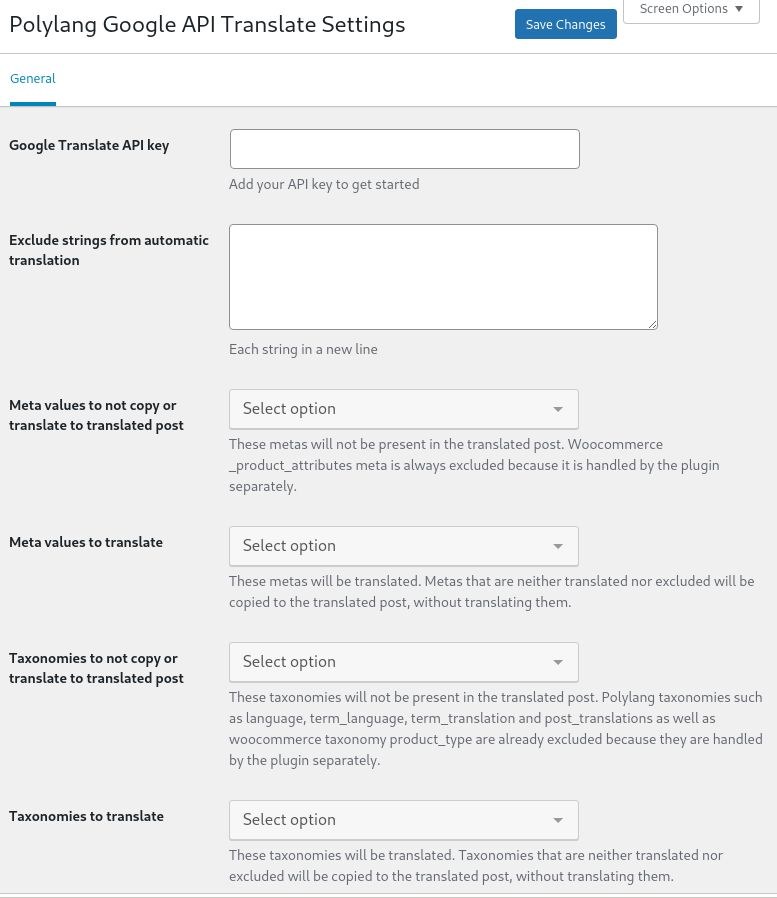
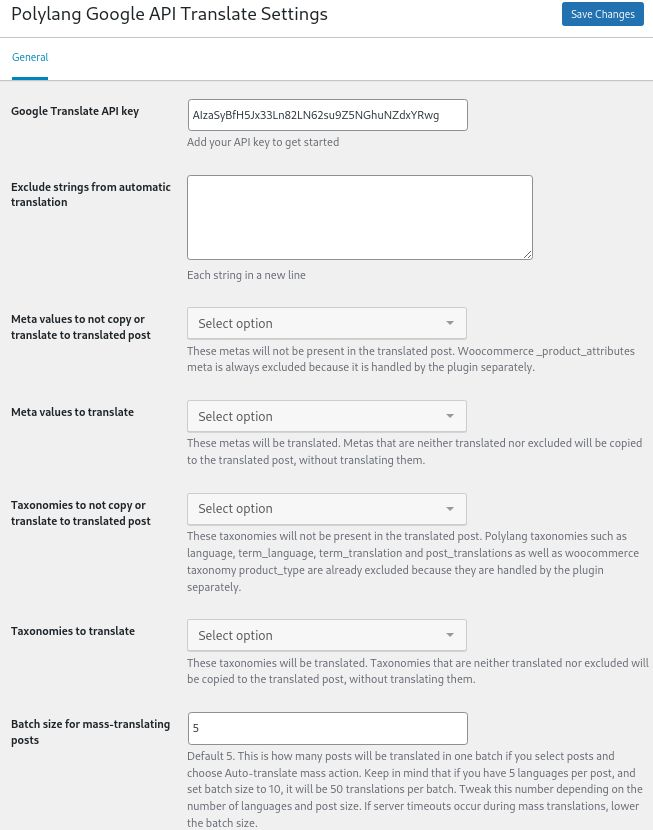
fixing terms translation table view updating

diff --git a/polylang-google-api-translate.php b/polylang-google-api-translate.php
@@ -161,7 +161,7 @@ class PAT_translate_class{
                 array(
                     'id'   => 'pat_batch_size',
                     'name' => __( 'Batch size for mass-translating posts' ),
-                    'desc' => __( 'Default 10. This is how many posts will be translated in one batch if you select posts and choose Auto-translate mass action. Keep in mind that if you have 5 languages per post, and set batch size to 10, it will be 50 translations per batch. Tweak this number depending on the number of languages and post size. If server timeouts occur during mass translations, lower the batch size.' ),
+                    'desc' => __( 'Default 5. This is how many posts will be translated in one batch if you select posts and choose Auto-translate mass action. Keep in mind that if you have 5 languages per post, and set batch size to 10, it will be 50 translations per batch. Tweak this number depending on the number of languages and post size. If server timeouts occur during mass translations, lower the batch size.' ),
                     'type' => 'text'
                 ),
 
@@ -185,7 +185,7 @@ class PAT_translate_class{
         $this->pat_taxonomies_to_exclude = array_key_exists('pat_taxonomies_to_exclude', $option_table)? $option_table['pat_taxonomies_to_exclude'] : array();
         $this->pat_taxonomies_to_translate = array_key_exists('pat_taxonomies_to_translate', $option_table)? $option_table['pat_taxonomies_to_translate'] : array();
         $this->pat_api_key = array_key_exists('pat_api_key', $option_table)? $option_table['pat_api_key'] : '';
-        $this->pat_batch_size = array_key_exists('pat_batch_size', $option_table)? $option_table['pat_batch_size'] : 10;
+        $this->pat_batch_size = array_key_exists('pat_batch_size', $option_table)? $option_table['pat_batch_size'] : 5;
 
     }
 
@@ -422,10 +422,14 @@ class PAT_translate_class{
             }
 
         } elseif ($taxonomy != ''){
-            $GLOBALS['taxonomy'] = $taxonomy;       //don't know why global taxonomy may be different from taxonomy. This in turn messes up fetching of single row language columns
             $screen = WP_Screen::get('edit-tags');
-            $screen->post_type = 'product';
-            $screen->taxonomy = 'product_cat';
+                if ($post_type == 'post'){
+                } elseif ($post_type == 'page'){
+                    $screen->post_type = 'page';    //this is probably unnecessary as there will never be taxonomy for pages ?
+                } elseif ($post_type == 'product'){
+                    $screen->post_type = 'product';
+                }
+            $screen->taxonomy = $taxonomy;
             $list_table = _get_list_table( 'WP_Terms_List_Table', array( 'screen' => $screen ) );
 
             foreach ($unique_ids as $term_id => $from_term){

diff --git a/readme.md b/readme.md
@@ -23,25 +23,46 @@ Same as post contens, also all taxonomies and metas are duplicated by polylang a
 
 Depending on your content, some taxonomies and metas should be translated (e.g. the category and tag name), some will be required to be only copied (duplicated, but not translated. e.g. if you have a likes counter - there is no sense in translating a number, but you may want this number to be displayed in the translated version nontheless), and some should stay only in the original post, because they should be different for each language version of the post (e.b. a comment counter - the English version of the post might have 100 comments, but the French version only 5).
 
-You should select which metas and taxonomies you would like to leave out, and which you would like to translate. All the rest will be duplicated.
+You should select which metas and taxonomies you would like to leave out, and which you would like to translate. All the other metas and terms will be duplicated to the translated language and their values will be copied.
 
-5. Go to Wordpress -> Posts.
+The last setting is batch size for batch translation. It is recommende to be between 5 and 10.
+
+5. Translating posts, pages, products, etc
+
+Go to Wordpress -> Posts.
 
 In the languages columns you will see something like below image. If you don't see the languages column, please click on "Screen Options" in the top-right corner and select each of the language that you want to see.
 
 ![post list language columns](https://raw.githubusercontent.com/ndrwbdnz/polylang-google-api-translate/master/docs/posts_translate_icon.jpg)
 
-For each post you will see the standard Polylang translation options (i.e. a plus sign - add a new post of a given language, a pen - edit the linked language version of the post, a flag - edit current post). This is marked in blue rectangle with a number "2" in the image above.
+For each post you will see the standard Polylang translation options (i.e. a plus sign - add a new post of a given language, a pen - edit the linked language version of the post, a flag - edit current post). This is marked in blue ovals with a number "1" in the image above.
 
-Below, only for posts that do not have a linked post in another language, you will see an auto translate icon (row marked in red rectangle and with number 1 in the image above).
+Below, only for posts that do not have a linked post in another language, you will see an auto translate icon (row marked in red ovals and with number 2 in the image above).
 
-When you click on the auto-translate icon, the page will reload and a message will be displayed on top - either with an error description or with a success message:
+When you click on the auto-translate icon, a translation status window will pop up and inform you about the progress of translation. Any errors will also be displayed here:
 
-![success message](https://raw.githubusercontent.com/ndrwbdnz/polylang-google-api-translate/master/docs/translate_success.jpg)
+![translation status window](https://raw.githubusercontent.com/ndrwbdnz/polylang-google-api-translate/master/docs/translation_status_window.jpg)
 
 The plugin translates the post content and all the meta and taxonomies, according to selection in the plugin options. The translated post is available as a draft for inspection and publishing.
 
-6. If you are in a single post edit screen, you can also auto-translate it in a similar way as in the post table screen.
+6. Batch translation
+
+You can select more than one post for translation using checkboxes in the left-most column of the posts table. Then click on the drop-down window bulk actions and select "Auto-translate selected". Click "Apply" button to the right of the dropdown and the translation status window will appear informing you about what is being done.
+
+![bulk action translate](https://raw.githubusercontent.com/ndrwbdnz/polylang-google-api-translate/master/docs/bulk-action-translate.jpg)
+
+The bulk translation works in such a way that for each selected post the plugin tries to create missing translations (i.e. those that have the auto-translation icon displayed).
+
+!IMPORTANT
+
+Please be very carefull which posts you select. In the example below the plugin will translate the same "logical" post from english to polish, from french to polish and from german to polish. The result will be 3 polish versions of the same plugin and a mess in how the posts are linked (most probably two polish translations will be orphaned and only the last one would be linked to the other languages).
+
+BTW: you can quickly fix translation links using the function described in section 9 below.
+
+![incorrect selection of posts for bulk translation](https://raw.githubusercontent.com/ndrwbdnz/polylang-google-api-translate/master/docs/incorrect_selection_bulk_translate.jpg)
+
+
+7. If you are in a single post edit screen, you can also auto-translate it in a similar way as in the post table screen.
 If you are in the gutenberg block-edit screen, please click on the polylang icon in the top-right corner. Otherwise look for the polylang metabox in the right side of the screen. You should be able to see something like this:
 
 ![single post translation icons](https://raw.githubusercontent.com/ndrwbdnz/polylang-google-api-translate/master/docs/single%20post%20translation.jpg)
@@ -49,7 +70,7 @@ If you are in the gutenberg block-edit screen, please click on the polylang icon
 Here the process is the same as in the case of post table translation.
 The difference is that you will be redirected to the newly creadted translarted post, where you can check the changes and publish it.
 
-7. Translation of tags, categories, attributes, etc. (taxonomies and meta)
+8. Translation of tags, categories, attributes, etc. (taxonomies and meta)
 
 If the post has tags, categories, etc, they will be translated automatically and linked together, unless they are selected in the settings to be left out in the settings panel.
 
@@ -61,7 +82,7 @@ The plugin works like this:
 - if it does, simply link this translation
 - if not - create a new translation and either translate the original, or duplicate the content
 
-8. Linking translations
+9. Linking translations
 
 There is an option in the bulk-edit dropdown called "Re-link tranlsations". It works both for posts and tags, categories, etc.
 This option is to quickly re-link translations if the links are broken.
@@ -69,17 +90,17 @@ This option does not do any automatic translation, etc.
 Please select a few posts or tags, categories, etc, each of a different language and use this option.
 The plugin will clear all the language relations of the selected items and then link them together as different language versions of the same content.
 
-9. Translating pages
+10. Translating pages
 
 Translation of pages works the same as for posts.
 
-10. Woocomemrce products
+11. Woocomemrce products
 
 Woocommerce products are translated in the same way as posts. The internal functions of the plugin are diffrent, because products are more complex.
 
 Translating product variations should work, but has not been tested. Your contribution is welcome.
 
-11. Other post types
+12. Other post types
 
 If you would like to translate other post types, please use Polylang filter pll_get_post_types to include your post type in the translatable post type, like so:
 ```
@@ -95,10 +116,10 @@ If your post has specific fileds, or structure, the automatic translation might 
 Polylang reference can be found here:
 [https://polylang.wordpress.com/documentation/documentation-for-developers/](https://polylang.wordpress.com/documentation/documentation-for-developers/)
 
-12. Updating translated content
+13. Updating translated content
 
 If you have posts that are different language versions and linked together, and you edit the content of one of the posts, then you have to manually update the remaining posts.
 
-13. Translating strings
+14. Translating strings
 
 If you go to Languages -> String translations you will see that there is an auto-translate icon to the right of each text field. Upon clicking it, the plugin will take the main string (the value in the left-most "String" column), and try to translate it to the language that is assigned to the given text field. The plugin does not send any original language code to Google Translate, so Google Translate will try to determine the language of the original.
